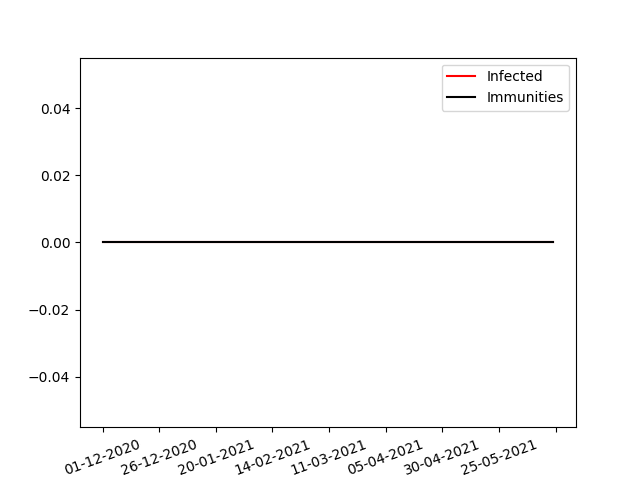
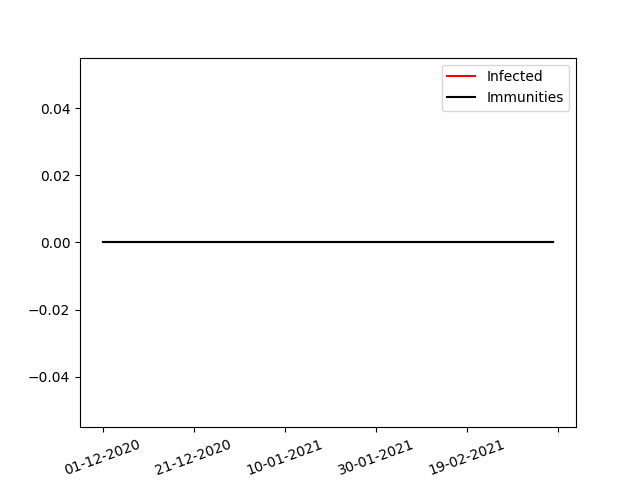
Graph is playing up or its not working

Changed region(s): [[0.1875, 0.9062, 0.8438, 1.0]]

diff --git a/plotter.py b/plotter.py
@@ -15,29 +15,45 @@ class Plotter(plotter.Plotter):
 
     def makePlot(self):
         # outputs the final plot for each city
-        cityNum = 0
-        for c in self.cities:
+        for num, city in enumerate(self.cities):
             ax = plt.gca()
 
-            self.output[cityNum].plot(kind='line', x='Day', y='Infected', ax=ax, color='red')
-            self.output[cityNum].plot(kind='line', x='Day', y='Immunities', ax=ax, color='k')
+            self.output[num].plot(kind='line', x='Day', y='Infected', ax=ax, color='red')
+            self.output[num].plot(kind='line', x='Day', y='Immunities', ax=ax, color='k')
             plt.xticks(rotation=20)
 
-            filename = 'C:/Users/lozin/Documents/Projects/{}Output.png'.format(c[0])
+            filename = 'C:/Users/lozin/Documents/Projects/{}Output.png'.format(city[0])
             plt.savefig(filename)
             plt.close()
-            cityNum += 1
-            print("Plot made for {}".format(c[0]))
+            print("Plot made for {}".format(city[0]))
 
-    def updateOutput(self, i, cities):
+        # cityNum = 0
+        # for c in self.cities:
+        #     ax = plt.gca()
+        #
+        #     self.output[cityNum].plot(kind='line', x='Day', y='Infected', ax=ax, color='red')
+        #     self.output[cityNum].plot(kind='line', x='Day', y='Immunities', ax=ax, color='k')
+        #     plt.xticks(rotation=20)
+        #
+        #     filename = 'C:/Users/lozin/Documents/Projects/{}Output.png'.format(c[0])
+        #     plt.savefig(filename)
+        #     plt.close()
+        #     cityNum += 1
+        #     print("Plot made for {}".format(c[0]))
+
+    def updateOutput(self, i, topLevel):
         # gets the number of people infected and immune people on day 'i' to plot on graph
 
-        cityNum = 0
-        for city in cities.objects:
-            numInfected = 0
-            numImmune = 0
-            numInfected += city.getInfectedCount()
-            numImmune += city.getImmuneCount()
-            self.output[cityNum] = self.output[cityNum].append({'Day': i, 'Infected': numInfected, 'Immunities': numImmune},
-                                                               ignore_index=True)
-            cityNum += 1
+        for num, city in enumerate(topLevel.objects):
+            self.output[num] = self.output[num].append({'Day': i, 'Infected': city.getInfectedCount(), 'Immunities': city.getImmuneCount()},
+                                    ignore_index=True)
+
+        # cityNum = 0
+        # for city in topLevel.objects:
+        #     numInfected = 0
+        #     numImmune = 0
+        #     numInfected += city.getInfectedCount()
+        #     numImmune += city.getImmuneCount()
+        #     self.output[cityNum] = self.output[cityNum].append({'Day': i, 'Infected': numInfected, 'Immunities': numImmune},
+        #                                                        ignore_index=True)
+        #     cityNum += 1

diff --git a/Places/place.py b/Places/place.py
@@ -79,19 +79,6 @@ class Building(environment.Environment):
             h.decrement(disease)
 
 
-class BuildingNonStatic(Building):
-    # This is a building that will have a population that changes each time step
-    def __init__(self, activePeriod, name, infectionMultiplier, hostObjects):
-        super().__init__(activePeriod, name, infectionMultiplier, hostObjects)
-        self.allHosts = []
-
-    def populate(self, hostObjects):
-        self.allHosts = hostObjects
-
-    def timeStep(self, disease, day):
-        pass  # me a beer!
-
-
 class City(container.Container):
     # City will contain and interact between the buildings
 
@@ -276,10 +263,14 @@ class Country(container.Container):
         for o in self.objects:
             o.timeStep(disease, day)
 
-        for cityFrom, row in enumerate(self.halfwayHouses):
-            for cityTo, halfwayHouse in enumerate(row):
-                if len(self.halfwayHouses[cityTo][cityFrom].hosts) == 0:
-                    halfwayHouse.hosts += self.objects[cityFrom].getCommuters(self.percentageMatrix[cityFrom][cityTo])
+        for row in range(len(self.halfwayHouses[0])-1):
+            for col in range(row+1, len(self.halfwayHouses[0])):
+                self.halfwayHouses[row][col].hosts += self.objects[row].getCommuters(self.percentageMatrix[row][col])
+
+        # for cityFrom, row in enumerate(self.halfwayHouses):
+        #     for cityTo, halfwayHouse in enumerate(row):
+        #         if len(self.halfwayHouses[cityTo][cityFrom].hosts) == 0:
+        #             halfwayHouse.hosts += self.objects[cityFrom].getCommuters(self.percentageMatrix[cityFrom][cityTo])
 
         for row in self.halfwayHouses:
             for h in row:

diff --git a/preprocessor_commond_cold.py b/preprocessor_commond_cold.py
@@ -62,7 +62,6 @@ class Preprocessing(preprocessor.Preprocessing):
         # for c in cities:
         #     c.matrix = matrix[counter]
         #     counter += 1
-
         self.initialInfection(disease, topLevel)
 
         return topLevel
@@ -72,6 +71,8 @@ class Preprocessing(preprocessor.Preprocessing):
         c = topLevel.objects[cityNum]
         buildingNum = random.randint(0, len(c.objects)-1)
         building = c.objects[buildingNum]
+        if len(building.hosts) == 0:
+            building = c.objects[random.randint(0, len(c.objects)-1)]
         hostNum = random.randint(0, len(building.hosts)-1)
         toInfect = building.hosts[hostNum]
         toInfect.infected = True

diff --git a/main.py b/main.py
@@ -3,13 +3,8 @@ import model
 import databaseHandler
 
 if __name__ == '__main__':
-    numPeople = 130000
-    numWorkplaces = 2100
-    numHouses = 51499
-    numSchools = 42
-    numShops = 40
 
-    runtime = 200
+    runtime = 100
     dbHandler = databaseHandler.DatabaseHandler(1)
 
     startDateDay = 1
